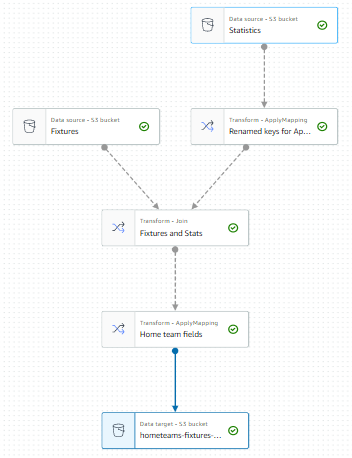
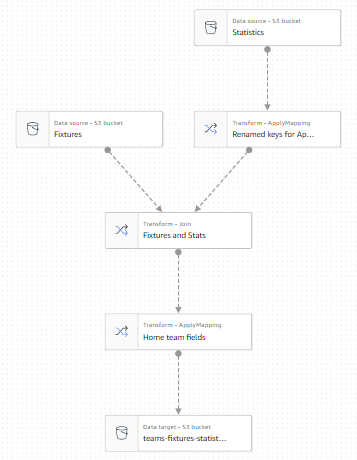
Glue jobs

diff --git a/awayteamstatistics.py b/awayteamstatistics.py
@@ -41,9 +41,9 @@ Transform1 = ApplyMapping.apply(frame = Transform0, mappings = [("idfixture", "l
 # Force one partition, so it can save only 1 file
 repartition = Transform1.repartition(1)
 ## @type: DataSink
-## @args: [connection_type = "s3", format = "csv", connection_options = {"path": "s3://dataLakeBucketName/processed-data/api-football/awayteams-fixtures-statistics/", "partitionKeys": []}, transformation_ctx = "DataSink0"]
+## @args: [connection_type = "s3", format = "csv", connection_options = {"path": "s3://dataLakeBucketName/processed-data/api-football/teams-fixtures-statistics/", "partitionKeys": []}, transformation_ctx = "DataSink0"]
 ## @return: DataSink0
 ## @inputs: [frame = Transform1]
 dataLakeBucketName = 'XXX' # Replace XXX by your data lake bucket name
-repartition.toDF().write.mode("overwrite").format("csv").option("header", "true").save("s3://" + dataLakeBucketName + "/processed-data/api-football/awayteams-fixtures-statistics/")
+repartition.toDF().write.mode("append").format("csv").option("header", "true").save("s3://" + dataLakeBucketName + "/processed-data/api-football/teams-fixtures-statistics/")
 job.commit()

diff --git a/hometeamstatistics.py b/hometeamstatistics.py
@@ -41,9 +41,9 @@ Transform2 = ApplyMapping.apply(frame = Transform1, mappings = [("idfixture", "l
 # Force one partition, so it can save only 1 file
 repartition = Transform2.repartition(1)
 ## @type: DataSink
-## @args: [connection_type = "s3", format = "csv", connection_options = {"path": "s3://dataLakeBucketName/processed-data/api-football/hometeams-fixtures-statistics/", "partitionKeys": []}, transformation_ctx = "DataSink0"]
+## @args: [connection_type = "s3", format = "csv", connection_options = {"path": "s3://dataLakeBucketName/processed-data/api-football/teams-fixtures-statistics/", "partitionKeys": []}, transformation_ctx = "DataSink0"]
 ## @return: DataSink0
 ## @inputs: [frame = Transform2]
-repartition.toDF().write.mode("overwrite").format("csv").option("header", "true").save("s3://" + dataLakeBucketName + "/processed-data/api-football/hometeams-fixtures-statistics/")
+repartition.toDF().write.mode("append").format("csv").option("header", "true").save("s3://" + dataLakeBucketName + "/processed-data/api-football/teams-fixtures-statistics/")
 dataLakeBucketName = 'XXX' # Replace XXX by your data lake bucket name
 job.commit()

diff --git a/README.md b/README.md
@@ -214,19 +214,33 @@ In order to run a machine learning algorithm that predicts goals for each team o
 
 ![](images/teamStatisticsSchema.PNG)
 
-To do this I create two new folder into my data lake:
-- processed-data/api-football/hometeams-fixtures-statistics/
-- processed-data/api-football/awayteams-fixtures-statistics/
+To do this I create a new folder into my data lake that I name processed-data/api-football/teams-fixtures-statistics/.
 
 Then I create two ETL jobs with Glue:
-- hometeamstatistics (glueJobHomeTeamStatistics.py)
+- hometeamstatistics (hometeamstatistics.py)
 
 ![](images/glueJobHomeTeamStatisticsDiagram.PNG)
 
-- awayteamstatistics (glueJobAwayTeamStatistics.py)
+- awayteamstatistics (awayteamstatistics.py)
 
 ![](images/glueJobAwayTeamStatisticsDiagram.PNG)
 
 Finally, I create a new trigger to schedule these jobs each Tuesday at 9 AM (GMT) for years 2020 and 2021, with the cron expression "0 9 ? * TUE 2020-2021".
 
 ![](images/glueJobsTrigger.PNG)
+
+Once my Glue jobs are created and scheduled, a new S3 bucket is created to store all the Glue scripts, spark logs and temporary files.
+
+![](images/glueBucket.PNG)
+
+Running the two Glue jobs for the first time processes the data and uploads it to the S3 folder destination.
+To catalog these new data, I run the S3datalake crawler I've created before.
+Thanks to this, my data are now cataloged into my awsdataengineerprojectdatabase.
+
+![](images/teamsFixturesStatistics.PNG)
+
+## 8 Machine Learning with AWS SageMaker
+
+I first create a new SageMaker user, that I name "mydefaultusername".
+
+![](images/sagemakerUser.PNG)
